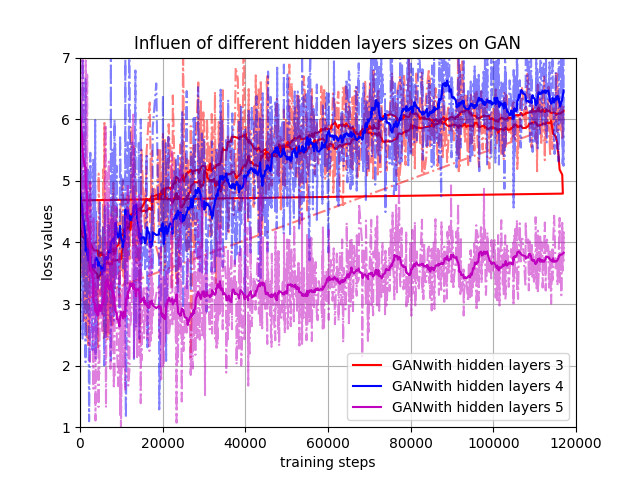
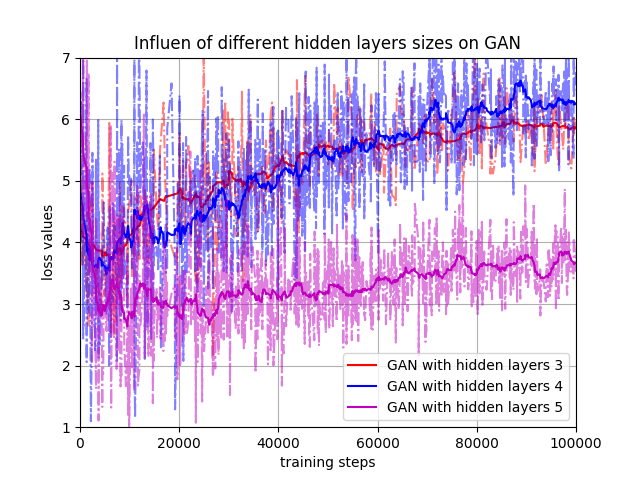
update

diff --git a/assign4/plot.py b/assign4/plot.py
@@ -100,7 +100,7 @@ def PlotAll(mode, model_name, dataset_name, num_hiddens, latent_sizes, xlim, yli
             if latent_size == 100:
                 x = x[:len(x)//2]
                 y = y[:len(y)//2]
-            PlotWithSparse(x, y, ax, colors[i], model_name + "with latent size " + str(latent_size))
+            PlotWithSparse(x, y, ax, colors[i], model_name + " with latent size " + str(latent_size))
         ax.set_title("Influen of different latent sizes on " + model_name)
         ax.set_xlim(xlim)
         ax.set_ylim(ylim)
@@ -115,10 +115,13 @@ def PlotAll(mode, model_name, dataset_name, num_hiddens, latent_sizes, xlim, yli
         for i in range(len(num_hiddens)):
             num_hidden = num_hiddens[i]
             x, y = GetOnePlot(model_name, dataset_name, num_hidden, latent_sizes)
+            if num_hidden == 0:
+                x = x[:len(x)//2]
+                y = y[:len(y)//2]
             if dataset_name == "CIFAR":
-                PlotWithSparse(x, y, ax, colors[i], model_name + "with hidden layers " + str(num_hidden + 4))
+                PlotWithSparse(x, y, ax, colors[i], model_name + " with hidden layers " + str(num_hidden + 4))
             else:
-                PlotWithSparse(x, y, ax, colors[i], model_name + "with hidden layers " + str(num_hidden + 3))
+                PlotWithSparse(x, y, ax, colors[i], model_name + " with hidden layers " + str(num_hidden + 3))
         ax.set_title("Influen of different hidden layers sizes on " + model_name)
         ax.set_xlim(xlim)
         ax.set_ylim(ylim)
@@ -145,8 +148,13 @@ if __name__ == "__main__":
     """
     model_names = ["GAN", "WGAN", "VAE"]
     dataset_names = ["MNIST", "CIFAR"]
-    lantent_sizes = [10, 20, 50, 100]
-    num_hiddens = [0, 1, 2]
+    latent_sizes = [10, 20, 50, 100]
+    num_hiddens = 0
 
-    mode = "latents"
-    PlotAll(mode, "GAN", "MNIST", 0, lantent_sizes, [0, 100000], [1, 7])
+    
+    if isinstance(latent_sizes, list):
+        mode = "latents"
+    else:
+        mode = "hiddens"
+        
+    PlotAll(mode, "GAN", "MNIST", num_hiddens, latent_sizes, [0, 100000], [1, 7])

diff --git a/assign4/read.py b/assign4/read.py
@@ -79,7 +79,7 @@ def PlotChanges(model_name, dataset_name, num_hidden, latent_size, hidden_layer_
     Function:
         Result of inspecting.
     """
-    fig = plt.figure()
+    fig = plt.figure(figsize=(16, 4))
     ax1 = fig.add_subplot(111)
 
     imgs_all = []
